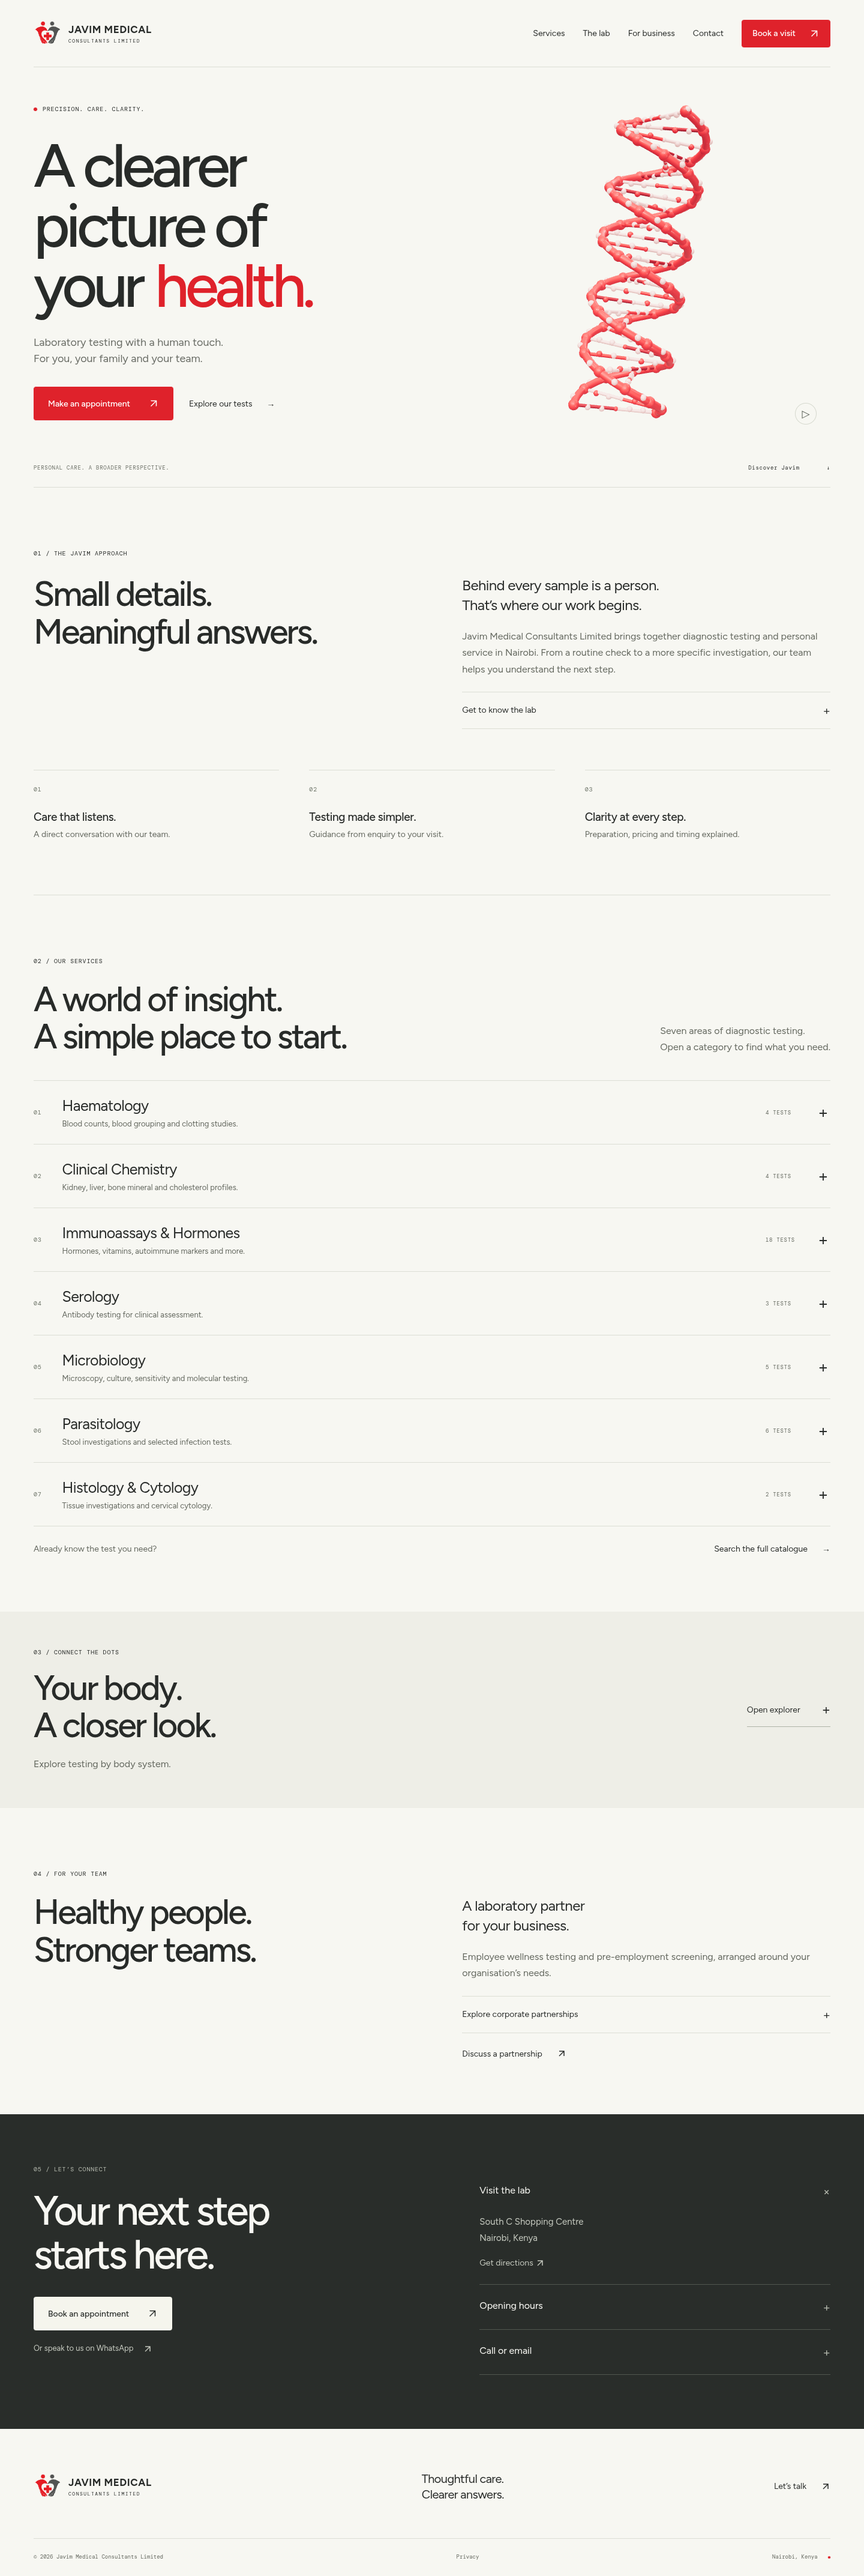
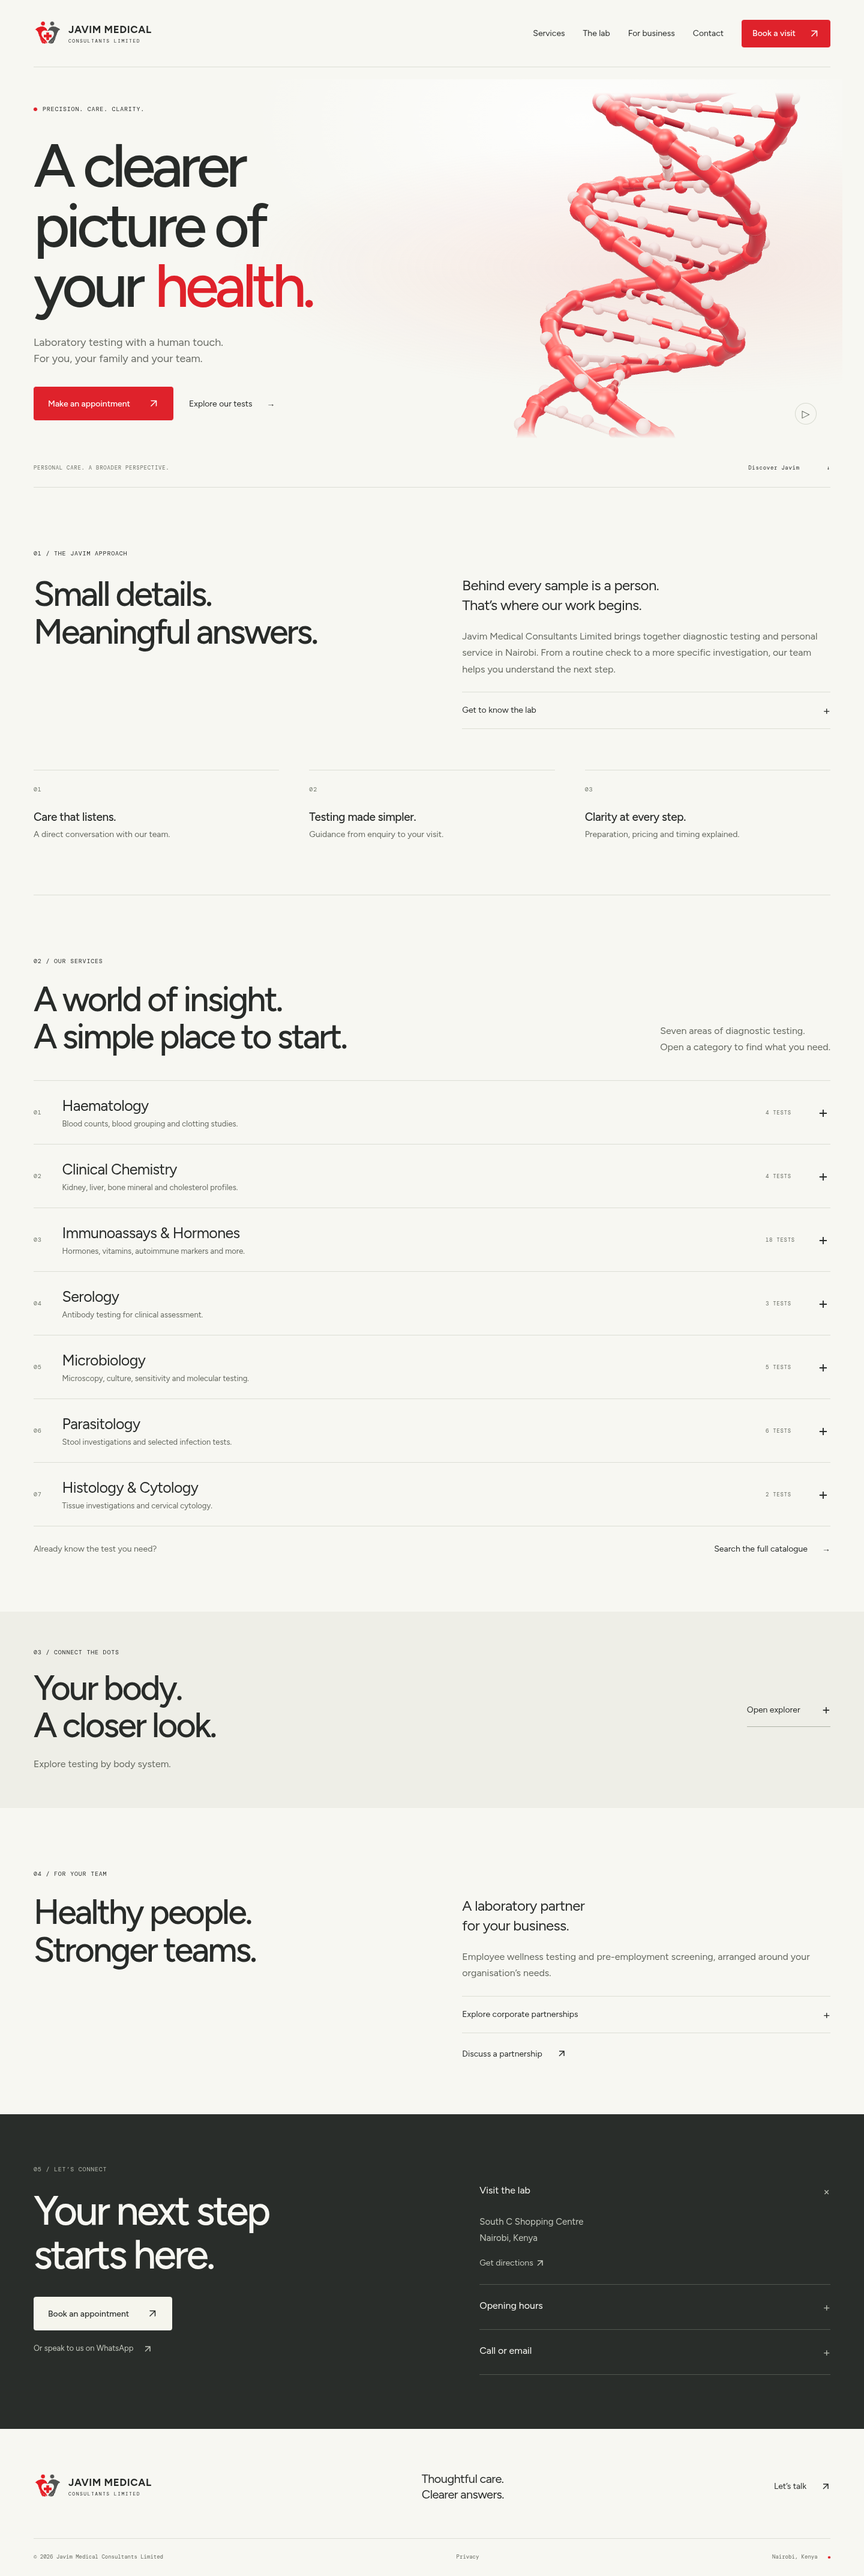
Enlarge hero DNA and add soft animated studio lighting

Changed region(s): [[0.625, 0.0312, 0.9375, 0.1874], [0.5938, 0.1562, 0.625, 0.1874]]

diff --git a/src/scene.js b/src/scene.js
@@ -14,7 +14,7 @@ export function mountScene(container) {
   renderer.setPixelRatio(Math.min(devicePixelRatio, innerWidth < 760 ? 1 : 1.5));
   renderer.setClearColor(0xffffff, 0);
   renderer.toneMapping = THREE.ACESFilmicToneMapping;
-  renderer.toneMappingExposure = 1;
+  renderer.toneMappingExposure = .92;
   container.appendChild(renderer.domElement);
   renderer.domElement.setAttribute('aria-hidden', 'true');
   const scene = new THREE.Scene(); // No background or fog: preserve the canvas alpha channel.
@@ -24,10 +24,10 @@ export function mountScene(container) {
   const room = new RoomEnvironment();
   scene.environment = pmrem.fromScene(room, .04).texture;
   room.dispose(); pmrem.dispose();
-  scene.add(new THREE.HemisphereLight(0xffffff, 0x8d6261, 1.1));
-  const key = new THREE.DirectionalLight(0xfff8ef, 3); key.position.set(-5, 5, 6); scene.add(key);
-  const fill = new THREE.DirectionalLight(0xffffff, 1.3); fill.position.set(4, -2, 3); scene.add(fill);
-  const rim = new THREE.DirectionalLight(0xffbbbb, 1.6); rim.position.set(2, 3, -4); scene.add(rim);
+  scene.add(new THREE.HemisphereLight(0xffffff, 0x735354, .75));
+  const key = new THREE.DirectionalLight(0xfff3e8, 3.1); key.position.set(-5, 5, 6); scene.add(key);
+  const fill = new THREE.DirectionalLight(0xffffff, .9); fill.position.set(4, -2, 3); scene.add(fill);
+  const rim = new THREE.DirectionalLight(0xffd1c9, 2.2); rim.position.set(2, 3, -4); scene.add(rim);
   const controls = new OrbitControls(camera, renderer.domElement);
   controls.enableDamping = true; controls.enablePan = false; controls.enableZoom = false;
   controls.minPolarAngle = Math.PI * .35; controls.maxPolarAngle = Math.PI * .65;
@@ -47,7 +47,7 @@ export function mountScene(container) {
   context.putImageData(pixels, 0, 0);
   const texture = new THREE.CanvasTexture(surface);
   texture.wrapS = texture.wrapT = THREE.RepeatWrapping;
-  const red = new THREE.MeshPhysicalMaterial({color:0xc31529,roughness:.52,metalness:0,clearcoat:.12,envMapIntensity:.45,bumpMap:texture,bumpScale:.018});
+  const red = new THREE.MeshPhysicalMaterial({color:0xc31529,roughness:.42,metalness:0,clearcoat:.24,clearcoatRoughness:.32,envMapIntensity:.55,bumpMap:texture,bumpScale:.025});
   const pale = new THREE.MeshPhysicalMaterial({color:0xe4a5a2,roughness:.58,envMapIntensity:.4});
   const deep = new THREE.MeshPhysicalMaterial({color:0x8f1826,roughness:.55,envMapIntensity:.35});
   const dna = new THREE.Group(); scene.add(dna);
@@ -85,7 +85,8 @@ export function mountScene(container) {
       atom(side, .085, pale); bond(p, side, .035, red);
     }
   }
-  dna.rotation.set(.08, .4, -.18);
+  dna.rotation.set(.08, .4, -.25);
+  dna.position.x = .45;
   const media = matchMedia('(prefers-reduced-motion: reduce)');
   let paused = media.matches, visible = true, elapsed = 0, last = performance.now(), lastRender = 0, dirty = true, frame;
   const button = document.querySelector('#motion-toggle');
@@ -101,6 +102,7 @@ export function mountScene(container) {
   const resize = () => {
     const {width, height} = container.getBoundingClientRect();
     if (!width || !height) return;
+    dna.scale.setScalar(width < 450 ? 1.65 : 2.05);
     renderer.setSize(width, height); camera.aspect = width / height; camera.updateProjectionMatrix(); dirty = true;
   };
   new ResizeObserver(resize).observe(container); resize();
@@ -113,7 +115,13 @@ export function mountScene(container) {
     const moved = controls.update();
     if (!paused) elapsed += dt;
     if ((paused && !dirty && !moved) || now - lastRender < 1000 / 30) return;
-    if (!paused) { dna.rotation.y = .4 + elapsed * .065; dna.position.y = Math.sin(elapsed * .2) * .07; }
+    if (!paused) {
+      dna.rotation.y = .4 + elapsed * .045;
+      dna.position.y = Math.sin(elapsed * .2) * .09;
+      // A slow studio-light drift reveals surface depth without flashing.
+      key.position.x = -5 + Math.sin(elapsed * .12) * .8;
+      rim.intensity = 2.2 + Math.sin(elapsed * .15) * .12;
+    }
     lastRender = now; dirty = false; renderer.render(scene, camera);
     container.querySelector('.scene-fallback').hidden = true;
   };

diff --git a/src/style.css b/src/style.css
@@ -15,3 +15,10 @@
 .motion-toggle{border:1px solid #d5d8ce;background:#f7f7f2;color:#555b51}
 .scene-fallback{display:flex;align-items:center;justify-content:center}
 .scene-fallback svg{height:90%;width:auto;max-width:90%;opacity:.85}
+/* Oversized editorial DNA composition with a soft studio-light wash. */
+.hero{position:relative;isolation:isolate}
+.hero::before{content:"";position:absolute;inset:20px -20px 90px;z-index:-1;pointer-events:none;background:radial-gradient(ellipse at 79% 53%,#eb9e9633,transparent 48%),radial-gradient(ellipse at 68% 12%,#ffffffd9,transparent 42%)}
+#medical-scene{mask-image:linear-gradient(to bottom,transparent 0%,#000 5%,#000 95%,transparent 100%)}
+.scene-bottom{z-index:2}
+.scene-fallback svg{height:175%;max-width:none;flex-shrink:0;transform:rotate(-8deg)}
+@media(max-width:760px){.hero::before{inset:25% -10px 60px;background:radial-gradient(ellipse at 60% 68%,#eb9e962b,transparent 65%)}.scene-fallback svg{height:155%}}

diff --git a/README.md b/README.md
@@ -60,7 +60,7 @@ Once public Cal.com event links exist, copy `.env.example` to `.env.local` and f
 
 The supplied logo images were visible in the conversation but were not available as local downloadable files, and retrieval from the former website was blocked. The current mark is a hand-recreated SVG based on the supplied artwork, not the original vector. Replace `public/assets/javim-mark.svg` and `favicon.svg` with approved originals for launch.
 
-The landing-page DNA uses offset helical strands, paired bases, small molecular details and subtle surface grain with soft lighting. The WebGL canvas preserves alpha, has no opaque scene background or fog, and composites directly over the light page. Its slow rotation supports pointer/touch exploration, a pause control, reduced-motion preferences, off-screen suspension and a static DNA fallback. This is an original scientific illustration, not a scientifically exact molecular model or a claim that Javim offers genetic testing. The former blood-cell/DNA switcher and technical labels have been removed from the hero.
+The landing-page DNA uses offset helical strands, paired bases, small molecular details and subtle surface grain with soft studio lighting. The helix is oversized and cropped at the top and bottom, with responsive scaling and a restrained rose light wash across the hero. A slowly drifting key light and rim highlight reveal surface depth during animation. The WebGL canvas preserves alpha, has no opaque scene background or fog, and composites directly over the light page. Its slow rotation supports pointer/touch exploration, a pause control, reduced-motion preferences, off-screen suspension and a static DNA fallback. This is an original scientific illustration, not a scientifically exact molecular model or a claim that Javim offers genetic testing. The former blood-cell/DNA switcher and technical labels have been removed from the hero.
 
 The anatomy explorer is an original stylized SVG with clickable and keyboard-selectable organs; it is not realistic 3D anatomy. Related tests provide service navigation, not diagnostic recommendations. No other brands' or watermarked stock imagery is included.
 
